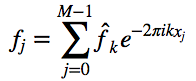
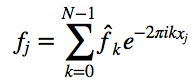
DOC: fix summation index in forward transform formula

diff --git a/README.md b/README.md
@@ -25,7 +25,7 @@ adjoint non-equispaced fast Fourier transforms;
 
 The forward transform:
 
-![$f_j = \sum_{j=0}^{M-1} f_k e^{-2\pi i k x_j}$](figures/forward-formula.png)
+![$f_j = \sum_{k=0}^{N-1} \hat{f}_k e^{-2\pi i k x_j}$](figures/forward-formula.png)
 
 And the adjoint transform:
 
